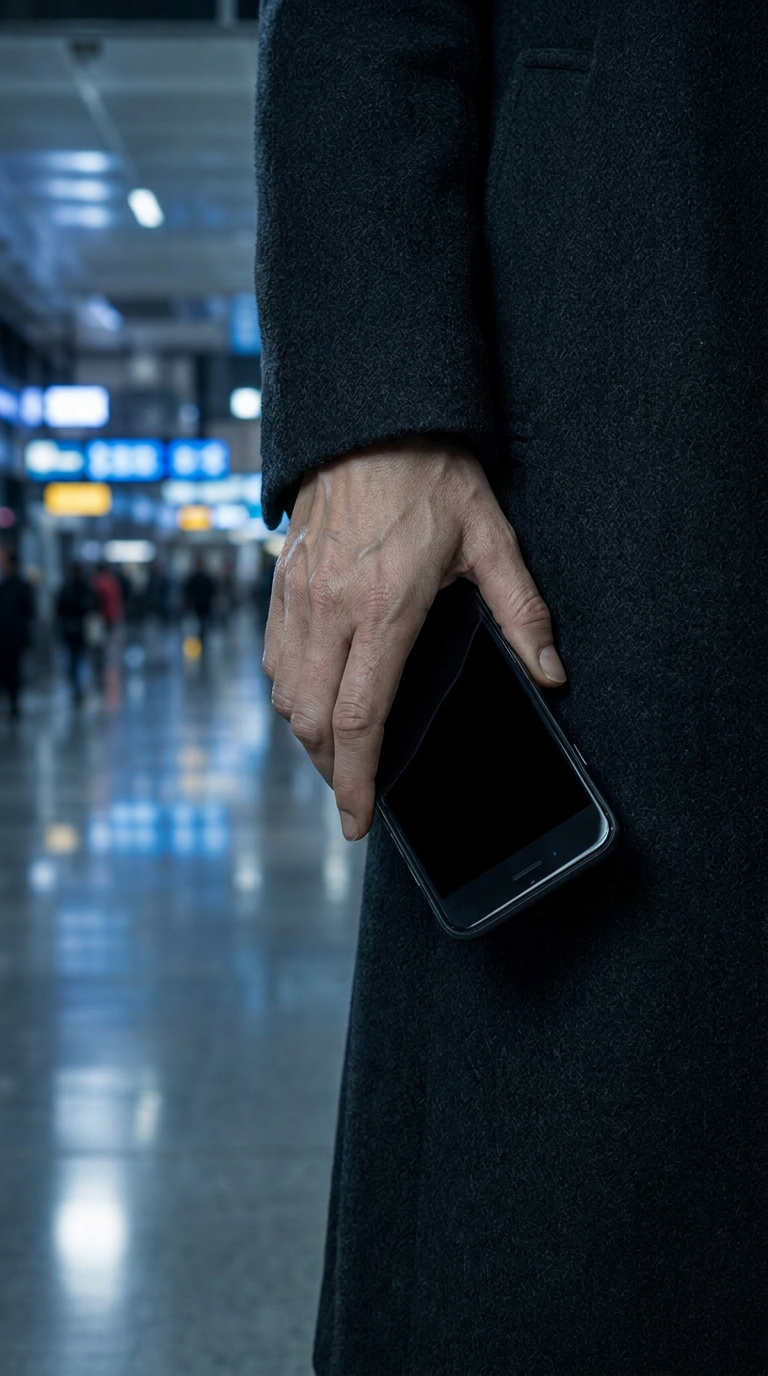
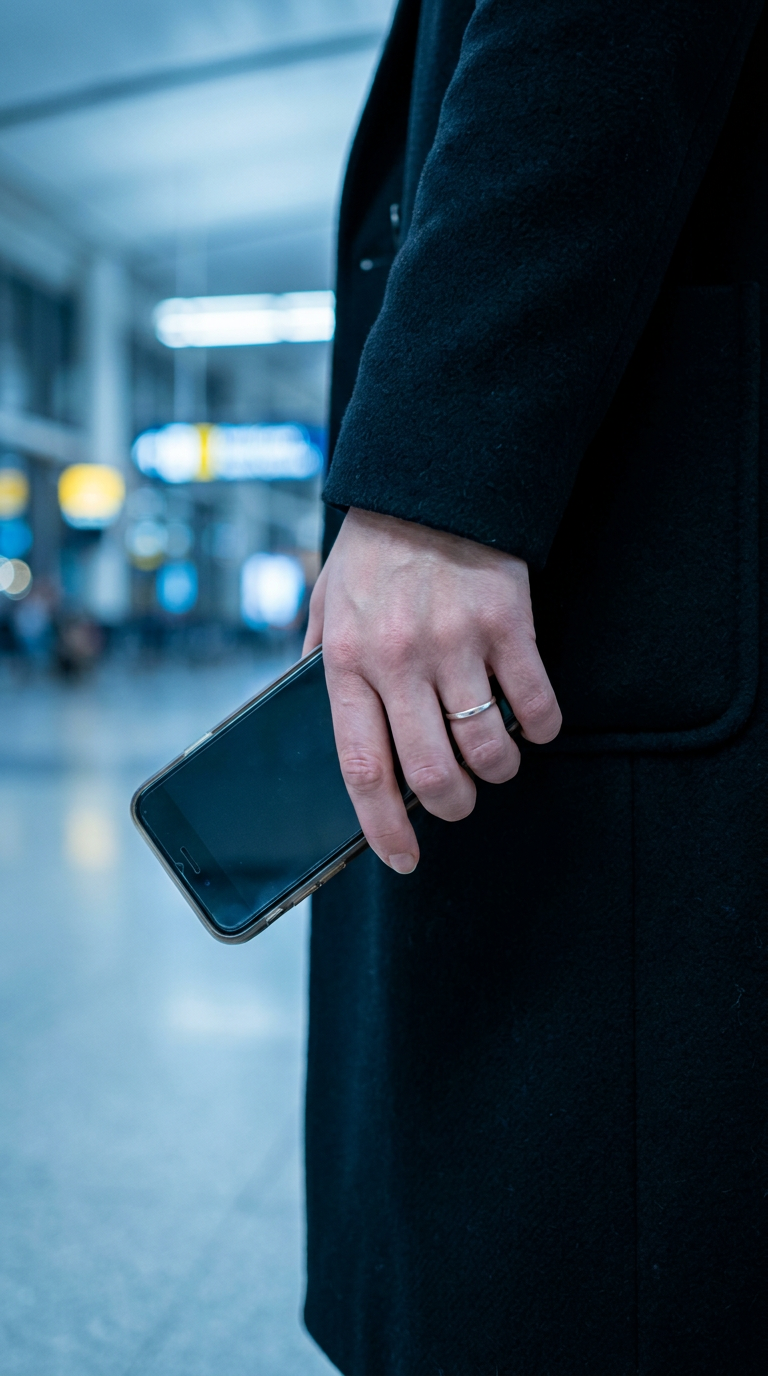
Trunk 2.0 — Fable prose pass + ring continuity fix
Fable (model) prose-intensity pass applied on top of the structural
Trunk 2.0 fixes, scoped to language only (no structure changes):
- tighter tempo into the open5 shock beat
- specific voicemail duration, "she made that call herself" detail
- one fix to Fable's output: restored the distinct Control/Doubt/
  Connection identity word in each reveal beat (Fable had collapsed
  them into identical text, which would have broken the mechanic)

Fable also introduced a wedding-ring detail (open4) not in the
original visual bible. Regenerated phone_archive.png (pt02/open3)
with the ring visible for continuity with the no-jewelry-except-canon
rule now in effect.

build 007 -> 008

diff --git a/index.html b/index.html
@@ -158,7 +158,7 @@ body{display:flex;align-items:center;justify-content:center;font-family:var(--mo
   <div class="timerbar"><div class="timerfill" id="timerfill"></div></div>
   <div class="hud">
     <div class="slug" id="slug">INT. JFK T4 · GATE B22 · 11:47 PM</div>
-    <div class="meta" id="meta" style="opacity:0.35">build 007</div>
+    <div class="meta" id="meta" style="opacity:0.35">build 008</div>
   </div>
   <div class="mayas" id="mayas"></div>
   <div class="echo" id="echo"></div>
@@ -263,71 +263,71 @@ const STORY = {
 
   /* ---------------- THE NEGOTIATION (new cold open · only Maya · raises stakes, establishes her) ---------------- */
   neg1:{ img:'neg1_rooftop.png', slug:'EXT. ROOFTOP · TWENTY STORIES UP',
-    line:'', action:'A rooftop. Twenty stories up. Wind. Somewhere below, sirens that haven’t stopped in an hour.',
+    line:'', action:'A rooftop, twenty stories up. Wind with teeth in it. Down on the street, sirens that started an hour ago and haven’t once stopped.',
     next:'neg2' },
   neg2:{ img:'neg2_listening.png', slug:'EXT. ROOFTOP · FIFTY MINUTES IN',
-    line:'She has been on the phone for fifty minutes. She has not raised her voice once.',
+    line:'Fifty minutes on this call. Her voice has never once left the register you’d use to say good morning.',
     action:'', next:'neg3' },
   neg3:{ img:'neg2_listening.png', slug:'EXT. ROOFTOP · FIFTY MINUTES IN',
-    line:'“I’m not going to lie to you. I don’t know if it gets better. I know you’re still here, and that’s the only fact I need right now.”',
-    action:'A voice on the other end, young, crying. She does not flinch. Her thumb moves once against the inside of her wrist — a habit that isn’t hers. She doesn’t notice she does it anymore.',
+    line:'“I won’t lie to you. I don’t know if it gets better. I know you’re still here. Right now that’s the only fact I need.”',
+    action:'On the line: a voice, young, coming apart. She doesn’t flinch. Her thumb strokes once across the inside of her wrist — a habit that was never hers. She stopped feeling herself do it months ago.',
     next:'neg4' },
   neg4:{ img:'neg4_after.png', slug:'EXT. ROOFTOP · AFTER',
-    line:'It ends. She does not celebrate. She has learned not to.',
-    action:'Somewhere below, they walk a kid off the ledge. She will never know the name. She never asks. Asking is how you make it personal, and personal is how you lose. She learned that the week they buried him.',
+    line:'It ends. One long breath, and nothing else. Celebrating is a thing she trained out of herself.',
+    action:'Below, they walk a kid back from the edge, an arm on each shoulder. She will never learn the name. She never asks. Names make it personal. Personal is how you lose. She learned that the week they buried him.',
     next:'open1' },
 
   /* ---------------- OPENING (wound before hook · ~25s muted) ---------------- */
   // op1 — TRANSITION (from professional competence to personal blank page)
   open1:{ img:'00_hero.png', slug:'INT. JFK T4 · GATE B22 · 11:47 PM',
-    line:'Nineteen years of choosing exactly what to say. Tonight she has nothing prepared.',
-    action:'London. An assignment that came through channels she doesn’t use anymore — requested by name. She could have said no. She never does.', next:'open2' },
+    line:'Nineteen years of knowing the exact next word. Tonight her mouth is empty.',
+    action:'London. The request came through channels she thought she’d sealed off — and it asked for her by name. She could have said no. She has never once said no.', next:'open2' },
 
   // op2 — ISOLATION (the world swallows her)
   open2:{ img:'maya_wide.png', slug:'INT. JFK T4 · THE LAST FLIGHT',
-    line:'Everyone around her moves like they have somewhere to be. She hasn’t moved in eleven minutes.',
+    line:'The terminal streams around her — rolling bags, final calls, everyone pulled toward somewhere. She hasn’t moved in eleven minutes.',
     action:'', next:'pt02' },
 
   // his phone, not hers — an archive, not a line. detonates in open5 precisely because it has no signal.
   pt02:{ img:'phone_archive.png', slug:'HER COAT POCKET · SIX MONTHS OF IT',
-    line:'', action:'A phone. Not hers — his, still in her coat six months later. No missed calls. He can’t call. Only what’s already there: a voicemail she has never opened. A photo folder she can’t delete. Her name, still saved as “Home.” A hand turns it face-down and walks away.',
+    line:'', action:'A phone. Not hers. His — riding in her coat for six months. No missed calls. He can’t call. Only what he left behind: one voicemail, forty-one seconds, never played. A photo folder she can’t bring herself to delete. Her number, still saved as “Home.” Her hand turns it face-down. Walks away.',
     next:'open3' },
 
   // op3 — THE WOUND (the object, not the count — carried, inert, sacred)
   open3:{ img:'phone_archive.png', slug:'HER COAT POCKET · SIX MONTHS OF IT',
-    line:'She has carried it every day for six months. It has no signal. It doesn’t need one.',
-    action:'She has learned to feel its weight in her coat without looking at it. Tonight, for the first time, she doesn’t turn it face-down.',
+    line:'Every day for six months. No signal, no service. It doesn’t need one.',
+    action:'She knows its weight the way she knows her own pulse — through the coat, without looking. Tonight, for the first time, she leaves it face-up.',
     next:'open4' },
 
-  // op4 — THE CRACK (the eyes carry what the face won't)
+  // op4 — THE CRACK (the eyes carry what the face won't; ring detail — kept per direction, no visible-jewelry conflict since this beat is an eyes ECU)
   open4:{ img:'maya_eyes.png', slug:'INT. GATE B22 · 11:48 PM',
-    line:'Six months a widow. She has gotten very good at looking like she is fine.',
+    line:'Six months a widow. She still wears the ring. She has trained herself to stop turning it when anyone is watching.',
     action:'', next:'open5' },
 
   // op5 — THE HOOK (now it lands — the call she cannot ignore)
   open5:{ img:'01_dontgeton.png', slug:'A MESSAGE · FROM A DEAD MAN',
-    line:'His number was cancelled the week of the funeral.',
-    action:'It lights up. An object with no signal, six months silent, suddenly has something to say. DANIEL. “Don’t get on.”',
+    line:'His number was disconnected the week of the funeral. She made that call herself.',
+    action:'It lights up. No signal. Six months dark. And it has something to say. One name: DANIEL. Three words: “Don’t get on.”',
     next:'c1' },
 
   /* ---------------- CHOICE 1 — THE GATE ---------------- */
   c1:{ img:'03_gate_choice.png', slug:'INT. GATE B22 · 4:00 TO DEPARTURE', chapter:'Choice — who is Maya right now?',
-    line:'From her seat she can still see the jet bridge door. It’s open. The queue is shorter than her reasons to sit here.',
+    line:'From her seat she can still see the jet bridge door. Open. The queue is down to a handful — shorter than her list of reasons to stay in this chair.',
     action:'',
     timer:18, timeoutTo:'reveal_board',
     choices:[
-      {ct:'Board', cx:'London is waiting. She told you: I never say no.', to:'reveal_board', maya:'control'},
-      {ct:'Stay',  cx:'Something’s wrong. You don’t board when something’s wrong.', to:'reveal_stay', maya:'doubt'},
-      {ct:'Call back', cx:'You have never once answered him. Answer now.', to:'reveal_call', maya:'connection'},
+      {ct:'Board', cx:'London is waiting. She told you herself: she never says no.', to:'reveal_board', maya:'control'},
+      {ct:'Stay',  cx:'Something is wrong. You don’t fly into wrong.', to:'reveal_stay', maya:'doubt'},
+      {ct:'Call back', cx:'Six months of not answering him. Answer him now.', to:'reveal_call', maya:'connection'},
     ]},
 
   /* ---------------- IDENTITY REVEAL (choice lands before interiority explains it — she tells you who she is, not the other way round) ---------------- */
   reveal_board:{ img:'03_gate_choice.png', dim:true, slug:'INT. GATE B22 · A DECISION MADE',
-    line:'Control.', action:'She has just told you who she is. She didn’t mean to.', next:'board_1' },
+    line:'Control.', action:'Nineteen years of choosing her words — and she didn’t mean to say that one.', next:'board_1' },
   reveal_stay:{ img:'03_gate_choice.png', dim:true, slug:'INT. GATE B22 · A DECISION MADE',
-    line:'Doubt.', action:'She has just told you who she is. She didn’t mean to.', next:'stay_1' },
+    line:'Doubt.', action:'Nineteen years of choosing her words — and she didn’t mean to say that one.', next:'stay_1' },
   reveal_call:{ img:'03_gate_choice.png', dim:true, slug:'INT. GATE B22 · A DECISION MADE',
-    line:'Connection.', action:'She has just told you who she is. She didn’t mean to.', next:'call_1' },
+    line:'Connection.', action:'Nineteen years of choosing her words — and she didn’t mean to say that one.', next:'call_1' },
 
   /* ================= BRANCH A — BOARD (Control) ================= */
   board_1:{ img:'board_jetbridge.png', slug:'INT. JET BRIDGE · 11:51 PM', chapter:'Board · the crossing',